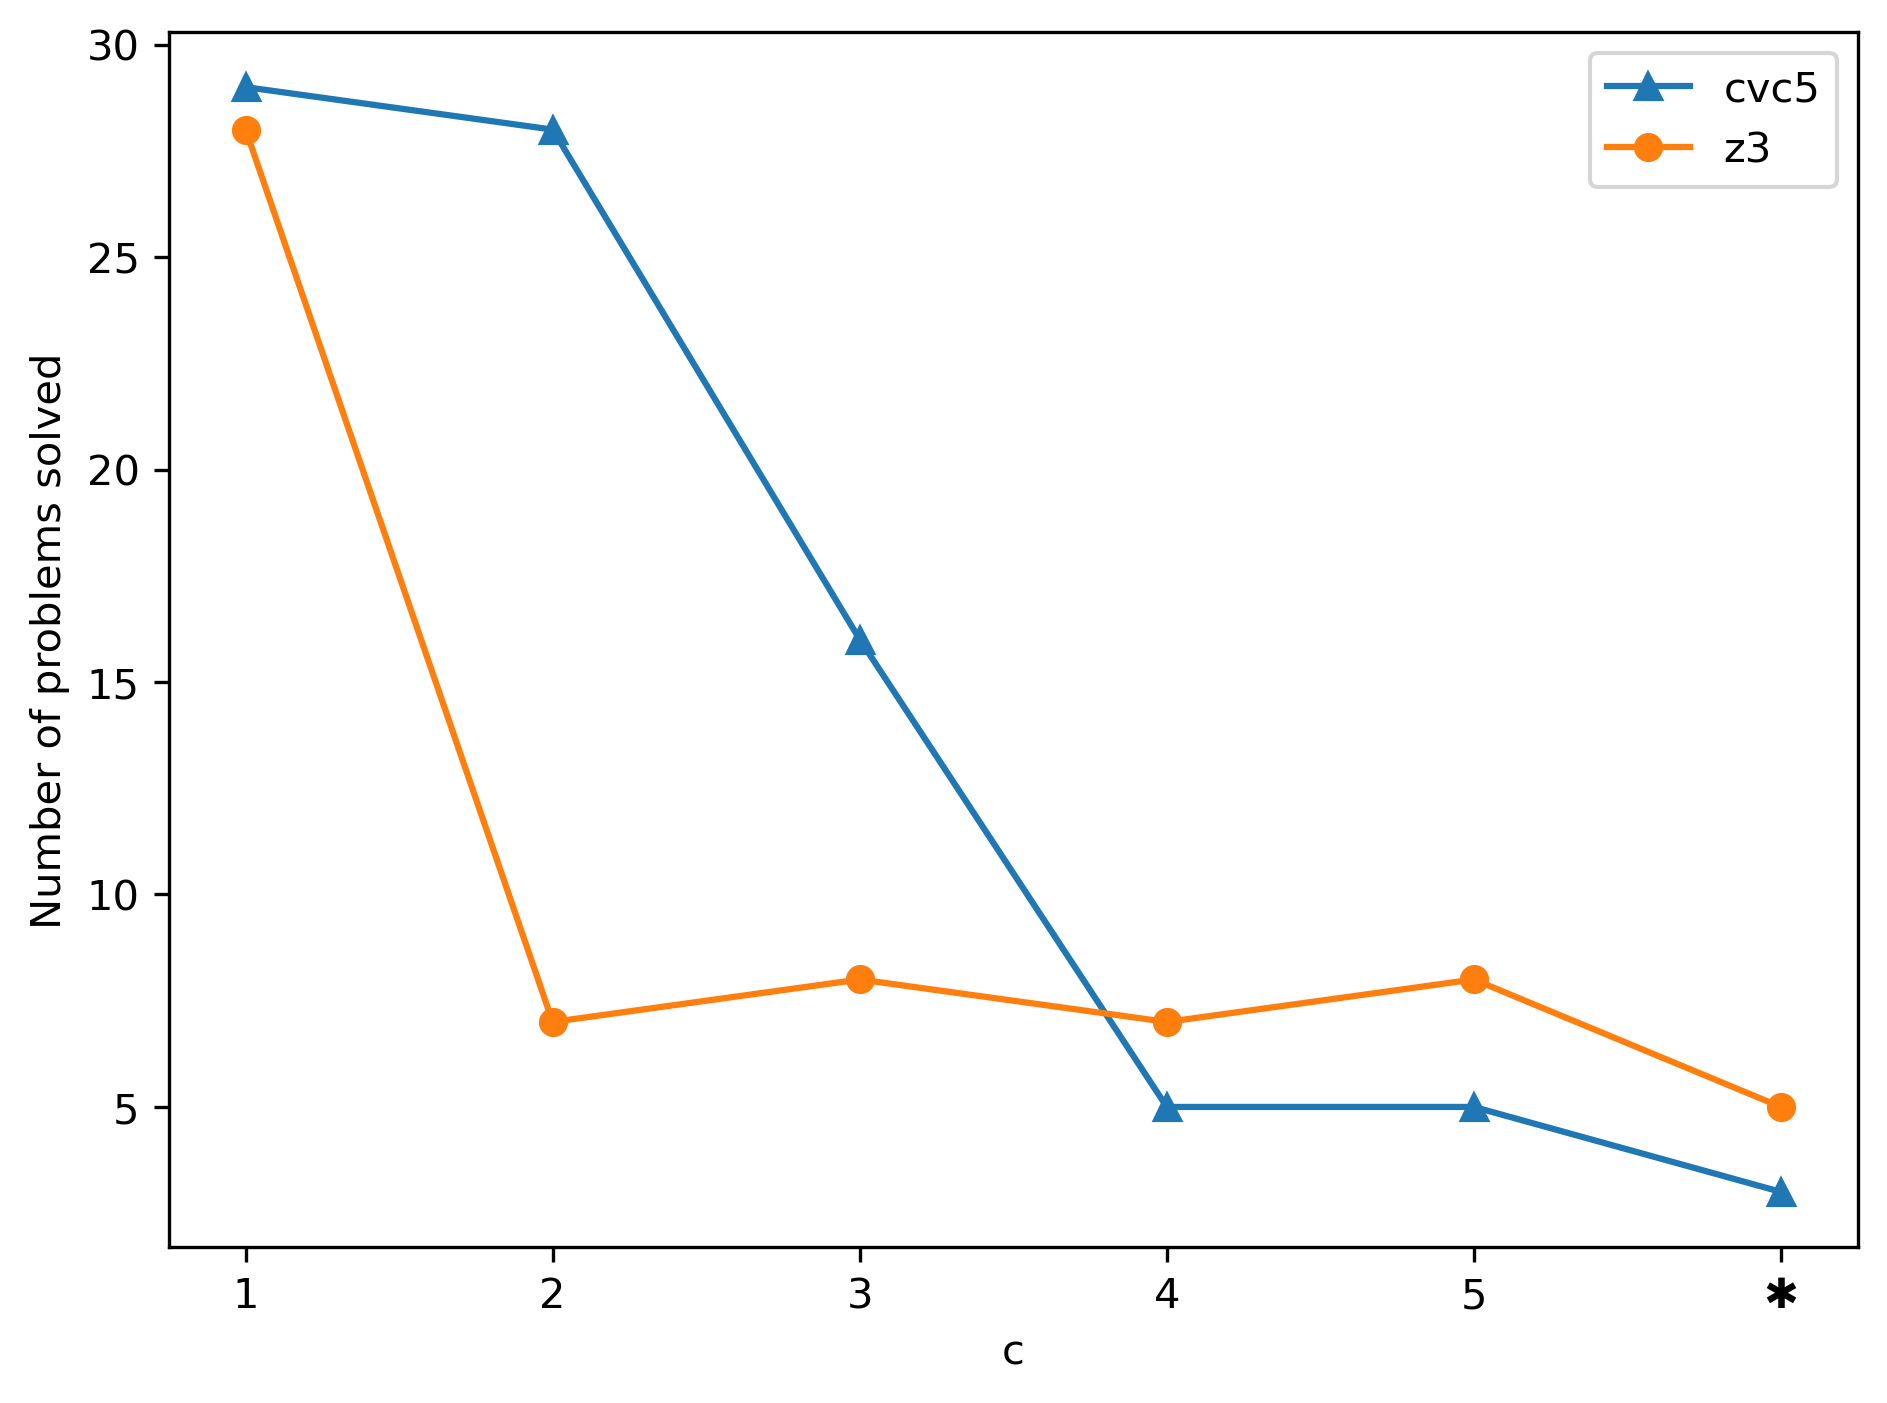
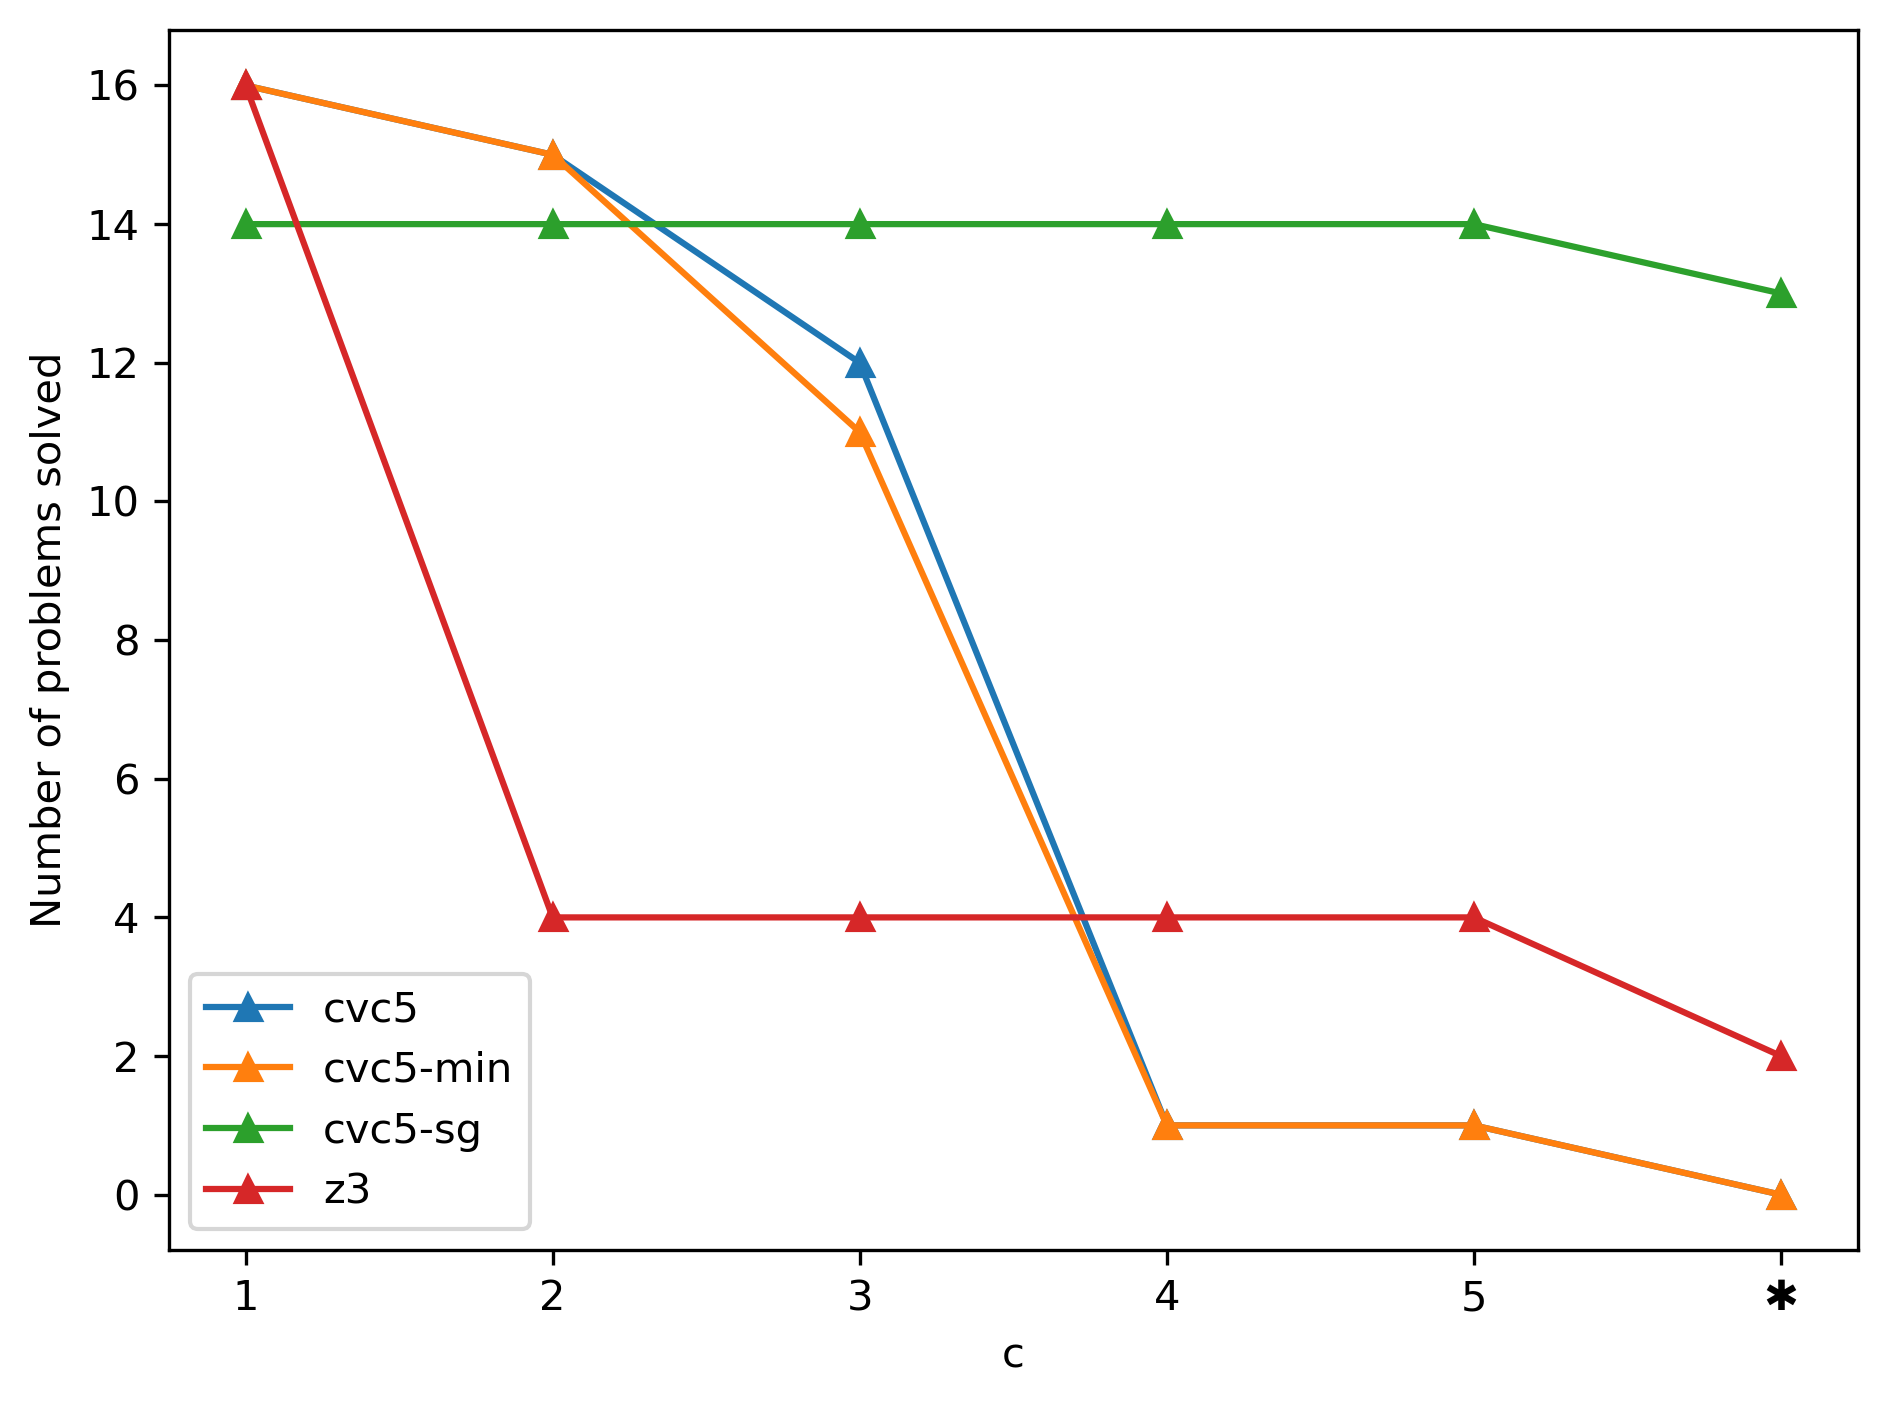
update

diff --git a/IJCAR/paper.tex b/IJCAR/paper.tex
@@ -846,7 +846,8 @@ For any interval $B = [b_{\min}, b_{\max}]$,  and sign~$s\in\{+, -\}$,
 
 \section{Experiments}
 
-Our experiments will test the conjecture that the algorithm introduced in the previous two sections is able to improve upon state-of-the-art $\smt$ solvers concerning the capability of showing formulas in the considered class to be satisfiable.
+Our experiments test the conjecture that the algorithm introduced in the previous two sections is able to improve
+upon state-of-the-art $\smt$ solvers concerning the capability of showing formulas in the considered class to be satisfiable.
 % Two common reasons for verification conditions to fail are (1) a bug in the program, (2) underlying
 % assertions are not inductive. In the first case, the counter-model will typically be finite, since
 % program executions modify finite memory. In the second case, the counter-model may be infinite.
@@ -854,26 +855,36 @@ Our experiments will test the conjecture that the algorithm introduced in the pr
 % However, even in the first case our method may improve upon methods such as MBQI, due to two reasons.
 % First, the models produced by MBQI may be particularly difficult to read. Next, the run-time
 % of MBQI increases with the size of the model.
-We prepared a test suite consisting of 28 problems\footnote{All the data for our experiments are available at our public repository \\\url{https://github.com/MarekDanco/f-definitions}}
-such as
+We prepared a test suite consisting of 16 handcrafted satisfiable
+problems\footnote{All the data for our experiments are available at our public repository \\\url{https://github.com/MarekDanco/f-definitions}}
+that, in addition, satisfy the \req condition. All problems in our set contain up to two constants, one or two function
+symbols of arity 1, simple ground constraints and one universally qunatified assertion.
+Two examples of the problems in our set are
 \begin{equation}\label{eq:exp1}
-  f(4)=7 \:\land\: \forall x.\: f(x+1)=f(x)+1
+	f(4)=7 \:\land\: \forall x.\: f(x+1)=f(x)+1
 \end{equation}  %Here, our algorithm terminates right after ensuring that \req holds for the interval $[0,\, 3]$.
 and
 \begin{equation}\label{eq:exp2}
 	d > 1\:\land\: f(0)=0 \:\land\: g(2) > f(d+1) \land\forall x \:.\: f(x-1)=f(x)+g(x)+g(x+d).
 \end{equation}
-To simplify implementation, we used versions that have an additional guard to restrict the range of the universally quantified variable to the naturals instead of the integers. The resulting formulas are of the form $F\land (\forall x \:.\: 0\leq x \Rightarrow Q)$. To study solver behavior over increasing model size, we also used versions where the guard restricts the range to a finite interval with upper bound $10^c$, with  $c\in \{1,\dots,5\}$. The resulting formulas are of the form  $F\land \forall x \:.\: (0\leq x \leq 10^c\Rightarrow Q)$.
+To simplify the implementation, we used versions that have an additional guard to restrict the range of the universally quantified variable to the naturals instead of the integers. The resulting formulas are of the form $F\land (\forall x \:.\: 0\leq x \Rightarrow Q)$. To study solver behavior over increasing model size, we also used versions where the guard restricts the range to a finite interval with upper bound $10^c$, with  $c\in \{1,\dots,5\}$. The resulting formulas are of the form  $F\land \forall x \:.\: (0\leq x \leq 10^c\Rightarrow Q)$.
 
-Apart from the upper bound $10^c$, our problems do not contain big integers, which would make a smarter initialization of the interval~$[b_{\min},b_{\max}]$ necessary in order to avoid a large number of loop iterations.\todoSR{I added a disclaimer about large integers already here. The issue is more subtle than this, but a discussion of this would probably lead too far.}
+Apart from the upper bound $10^c$, our problems do not contain big integers in function arguments, which would make a smarter
+initialization of the interval~$[b_{\min},b_{\max}]$ necessary in order to avoid numerous loop
+iterations in \cref{alg:interval-check-param-withBigvee}.
 
-We implemented our algorithm using the \textsc{z3} Python API. Our implementation only checks upward induction using~$\Psi^+$, but leaves out downward induction, which is sound due to the guard described in the previous paragraph. We also applied the \textsc{smt} solvers \textsc{z3} and
-\textsc{cvc5} directly to our problems, explicitly turning on model based quantifier instantiation~\cite{ge-cav09}.
+We implemented our algorithm using the \textsc{z3} Python API. Our implementation only checks upward induction using~$\Psi^+$,
+but leaves out downward induction, which is sound due to the guard described in the previous paragraph.
+It turned out that our algorithm terminates on all problems in negligible time.
+Moreover,  the value of the parameter~$c$ does not have a noticeable influence on runtime
+for the bounded versions of the test problems. We found the former observation surprising,
+while the latter was to be expected, due to the use of induction.
 
-It turned out that our algorithm terminates on all problems in negligible time. Moreover,  the value of the parameter~$c$ does not have a noticeable influence on runtime for the bounded versions of the test problems. We found the former observation surprising, while the latter was to be expected, due to the use of induction.
-
-\todoSR{Maybe we should partially replace some of the text by two more lines in Figure~\ref{fig:scaling} corresponding to a timeout of 1 minute?}
-For studying the behavior of direct application of $\smt$ solvers to our problems, and the influence of the parameter~$c$ on their runtime we ran our experiments with a 30-minute time limit.
+We also applied the \textsc{smt} solvers \textsc{z3} and \textsc{cvc5}
+directly to our problems, explicitly turning on model based quantifier instantiation~\cite{ge-cav09}.
+Additionally, we ran \textsc{cvc5} in \textsc{sygus} inference mode.
+To study the behavior of direct application of $\smt$ solvers to our problems, and the influence
+of the parameter~$c$ on their runtime, we ran our experiments with a 15-minute time limit.
 When setting $c = 1$, the state of the art \textsc{smt} solvers terminate on our
 problems immediately. On problem~\eqref{eq:exp1} with $c = 3$, \textsc{cvc5} takes
 64 seconds to return \textsc{sat}, and for $c \geq 4$, the solver times out. With
@@ -881,12 +892,20 @@ $c \geq 2$, \textsc{z3} returns \textsc{unknown} after 12 seconds. On problem~\e
 \textsc{cvc5} times out with $c \geq 3$ and \textsc{z3} returns \textsc{unknown} starting
 from $c = 2$. Figure~\ref{fig:scaling} further depicts how the two solvers perform on our problems
 with increasing $c$.
-%Between $c=2$ and $c=5$, \textsc{cvc5} shows a sharp performance drop, decreasing from 28 solved instances at
-%$c=1$ to 5 at $c=4$, and remaining at that level at $c=5$. In contrast, z3 remains relatively stable
-%over this range, solving 6 to 7 instances.
 We also tested the performance of the two solvers on unbounded problems, that is with the
 bound $0 \le x \le 10^c$ removed. \textsc{z3} solved 5 of those problems while \textsc{cvc5}
-solved 2.\todoSR{Can we say anything more about this? My guess is that CVC5 needs the model to be finite, and z3 needs it to be piecewise linear.}
+solved 2.
+
+\textsc{cvc5} in \textsc{sygus} mode solved all except two of our problems regardless
+of the asserted bounds.
+The first problem is
+\begin{align*}
+	f(0) = 1 \;\land \:\forall x \:. \:f(x+1) = 2*f(x).
+\end{align*}
+The second one is similar to the previous one with added integer constant in the quantified part.
+We assume the reason for this is that the function $\lambda x. \:2^{x}$ is not in \textsc{cvc5}
+default \textsc{sygus} grammar.
+
 \begin{figure}[ht]
 	\centering
 	\includegraphics[width=0.6\linewidth]{experiments/data/scaling_plot.png}
@@ -894,17 +913,17 @@ solved 2.\todoSR{Can we say anything more about this? My guess is that CVC5 need
 	\label{fig:scaling}
 \end{figure}
 
-\testlength{
-The cactus plots in Figure~\ref{fig:cactus} show the number of problems solved by \textsc{cvc5}
-within a time limit for $c \in \{2, 3\}$. We can observe most of the problems get solved
-in the 10 to 100 seconds limit when setting $c = 3$. With $c \geq 4$, \textsc{cvc5} times out
-on all but 5 problems, which get solved immediately.
-\begin{figure}[ht]
-	\centering
-	\includegraphics[width=1\linewidth]{experiments/data/cactus_plot.png}
-	\caption{Runtime of \textsc{cvc5} for solved problems with $c \in \{2, 3\}$.}
-	\label{fig:cactus}
-\end{figure}}
+% \testlength{
+% The cactus plots in Figure~\ref{fig:cactus} show the number of problems solved by \textsc{cvc5}
+% within a time limit for $c \in \{2, 3\}$. We can observe most of the problems get solved
+% in the 10 to 100 seconds limit when setting $c = 3$. With $c \geq 4$, \textsc{cvc5} times out
+% on all but 5 problems, which get solved immediately.
+% \begin{figure}[ht]
+% 	\centering
+% 	\includegraphics[width=1\linewidth]{experiments/data/cactus_plot.png}
+% 	\caption{Runtime of \textsc{cvc5} for solved problems with $c \in \{2, 3\}$.}
+% 	\label{fig:cactus}
+% \end{figure}}
 
 
 

diff --git a/IJCAR/experiments/data/mk_data_frame.py b/IJCAR/experiments/data/mk_data_frame.py
@@ -4,12 +4,21 @@ import matplotlib.pyplot as plt
 import numpy as np
 
 C_MAP = {
-    "bench10_2000_40000": 1,
-    "bench100_2000_40000": 2,
-    "bench1000_2000_40000": 3,
-    "bench10000_2000_40000": 4,
-    "bench100000_2000_40000": 5,
-    "bench_2000_40000": "✱",
+    "bench10_1000_40000": 1,
+    "bench100_1000_40000": 2,
+    "bench1000_1000_40000": 3,
+    "bench10000_1000_40000": 4,
+    "bench100000_1000_40000": 5,
+    "bench_1000_40000": "✱",
+}
+
+C_MAP_MIN = {
+    "bench10_75_40000": 1,
+    "bench100_75_40000": 2,
+    "bench1000_75_40000": 3,
+    "bench10000_75_40000": 4,
+    "bench100000_75_40000": 5,
+    "bench_75_40000": "✱",
 }
 
 
@@ -46,16 +55,23 @@ def parse_tab(path, solver, c):
     return rows
 
 
-base = Path("tables")
+base1 = Path("tables")
+base2 = Path("tables_min")
 rows = []
 for folder, c in C_MAP.items():
-    for solver in ["cvc5", "z3"]:
-        tab_file = base / folder / f"{solver}.tab"
+    for solver in ["cvc5", "cvc5-sg", "z3"]:
+        tab_file = base1 / folder / f"{solver}.tab"
         rows.extend(parse_tab(tab_file, solver, c))
+
+for folder, c in C_MAP_MIN.items():
+    tab_file = base2 / folder / "cvc5.tab"
+    rows.extend(parse_tab(tab_file, "cvc5-min", c))
+
+
 
 df = pd.DataFrame(rows)
 pd.set_option('display.max_rows', None)
-print(df[df["c"] == "✱"])
+# print(df[df["c"] == "✱"])
 c_to_numeric = {1: 1, 2: 2, 3: 3, 4: 4, 5: 5, "✱": 6}
 df["c_numeric"] = df["c"].map(c_to_numeric)
 
@@ -72,7 +88,7 @@ solved_numeric = (
 
 fig, ax = plt.subplots()
 for solver in solved_numeric.columns:
-    marker = "^" if solver == "cvc5" else "o"
+    marker = "^" if solver == "cvc5" or "cvc5-sg" else "o"
     ax.plot(
         solved_numeric.index,
         solved_numeric[solver],
